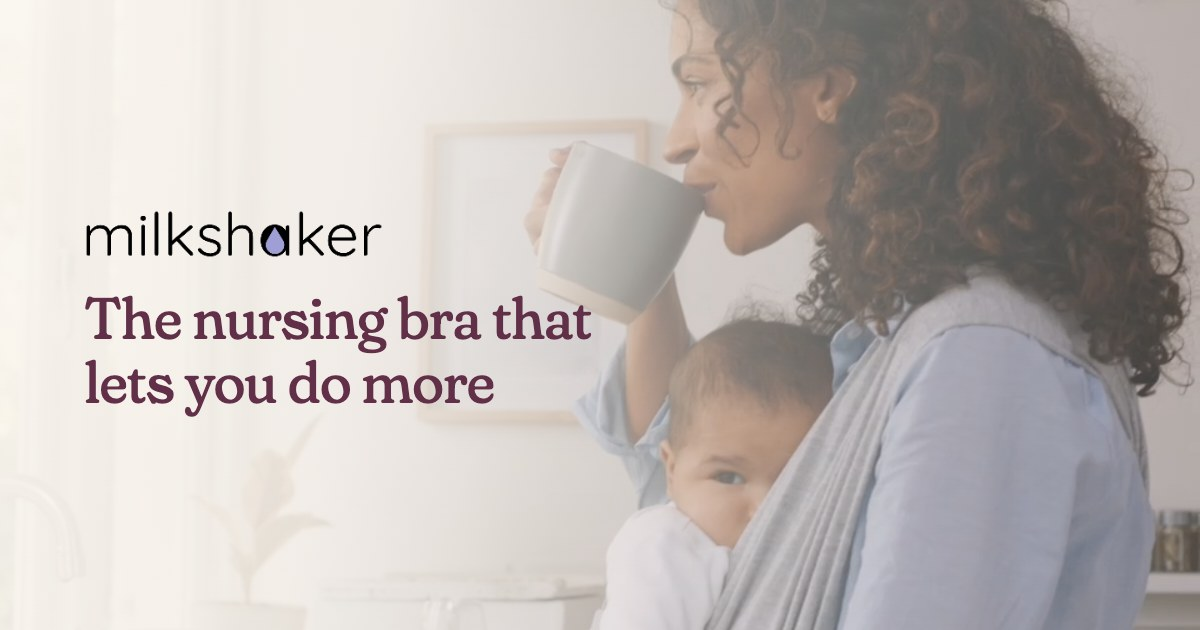
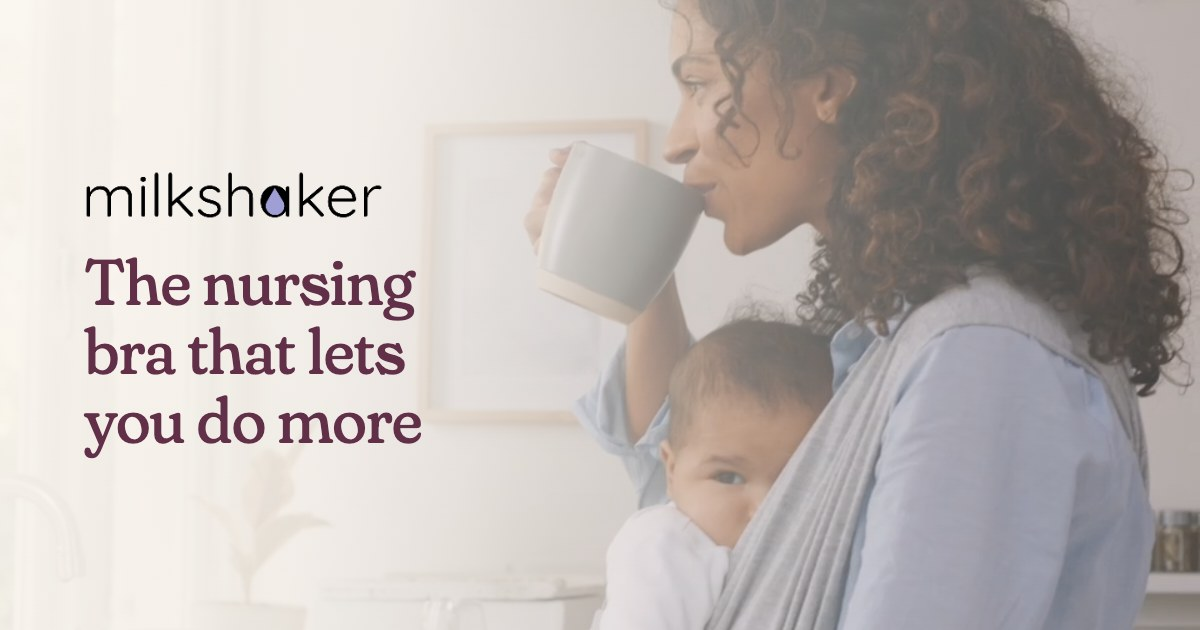
Three-line headline on the card, and more for Meta to read
The card's headline now breaks exactly where the desktop hero breaks --
"The nursing / bra that lets / you do more". Read off the live layout
rather than guessed: the words were walked and grouped by the top of
their client rects at 1280px, and those three lines are hardcoded into
the canvas so the two cannot drift apart. Plum measures 8.95:1 against
the composited scrim.

For Threads, which had been showing no image: the page itself was never
the problem -- the live URL returns every og tag, the image 200s as
image/jpeg, there is no robots.txt, no X-Robots-Tag and no meta robots,
so it is Meta holding a scrape from before the card existed. Bumped to
?v=3, which is what gets a fresh fetch for anyone who has not cached it.
Added og:image:secure_url, which Meta reaches for first over https, and
og:site_name to label the card.

Changed region(s): [[0.0617, 0.2714, 0.4933, 0.7238]]

diff --git a/coming-soon-early-access.html b/coming-soon-early-access.html
@@ -16,6 +16,7 @@
   <link rel="canonical" href="https://themilkshaker.com/coming-soon-early-access.html" />
 
   <meta property="og:type" content="website" />
+  <meta property="og:site_name" content="MilkShaker" />
   <meta property="og:url" content="https://themilkshaker.com/coming-soon-early-access.html" />
   <meta property="og:title" content="Early Access | MilkShaker" />
   <meta property="og:description"
@@ -26,7 +27,8 @@
         shape Facebook, LinkedIn, Slack and iMessage all crop to; this one
         is a frame lifted from the hero video. twitter:card is what makes
         X render it large rather than as a thumbnail. -->
-  <meta property="og:image" content="https://themilkshaker.com/assets/images/og-cover.jpg?v=2" />
+  <meta property="og:image" content="https://themilkshaker.com/assets/images/og-cover.jpg?v=3" />
+  <meta property="og:image:secure_url" content="https://themilkshaker.com/assets/images/og-cover.jpg?v=3" />
   <meta property="og:image:type" content="image/jpeg" />
   <meta property="og:image:width" content="1200" />
   <meta property="og:image:height" content="630" />

diff --git a/index.html b/index.html
@@ -10,6 +10,7 @@
   <link rel="canonical" href="https://themilkshaker.com/" />
 
   <meta property="og:type" content="website" />
+  <meta property="og:site_name" content="MilkShaker" />
   <meta property="og:url" content="https://themilkshaker.com/" />
   <meta property="og:title" content="MilkShaker | The nursing bra that lets you do more" />
   <meta property="og:description"
@@ -20,7 +21,8 @@
         shape Facebook, LinkedIn, Slack and iMessage all crop to; this one
         is a frame lifted from the hero video. twitter:card is what makes
         X render it large rather than as a thumbnail. -->
-  <meta property="og:image" content="https://themilkshaker.com/assets/images/og-cover.jpg?v=2" />
+  <meta property="og:image" content="https://themilkshaker.com/assets/images/og-cover.jpg?v=3" />
+  <meta property="og:image:secure_url" content="https://themilkshaker.com/assets/images/og-cover.jpg?v=3" />
   <meta property="og:image:type" content="image/jpeg" />
   <meta property="og:image:width" content="1200" />
   <meta property="og:image:height" content="630" />
